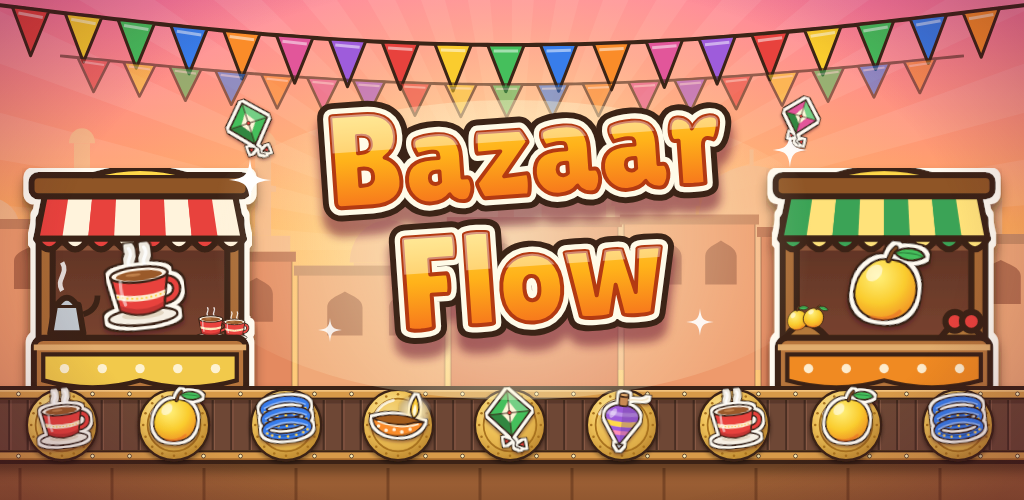
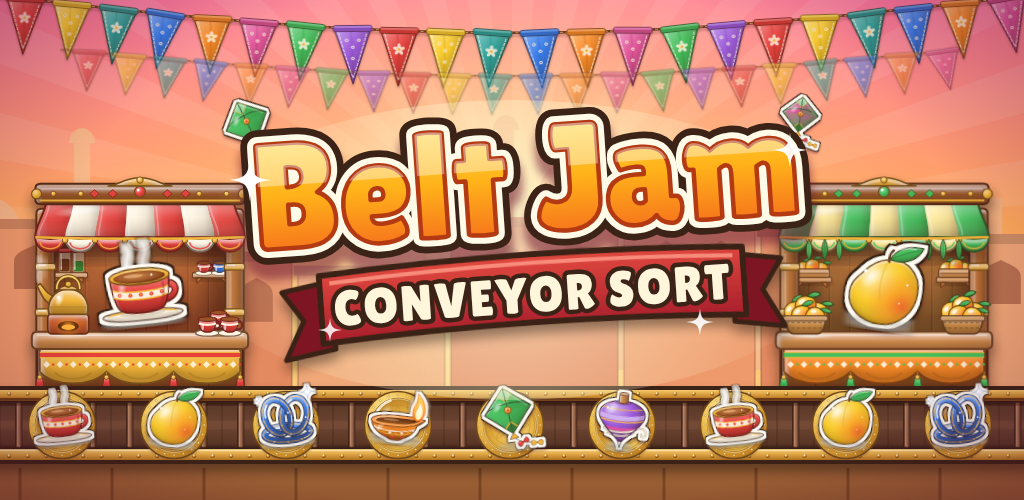
Store art: new title Belt Jam: Conveyor Sort, rebuilt with v2 art
Claude-Session: https://claude.ai/code/session_01Q4egAoqucZFQcgf6bA5jBD

diff --git a/Assets/BazaarFlow/Scripts/Visuals/BazaarVisuals.cs b/Assets/BazaarFlow/Scripts/Visuals/BazaarVisuals.cs
@@ -26,7 +26,7 @@ namespace BazaarFlow.Visuals
             if (Instance != null) return;
             if (!BazaarArt.Ready)
             {
-                Debug.LogWarning("Bazaar Flow: art not found in Resources/BazaarArt, keeping placeholder look.");
+                Debug.LogWarning("Belt Jam: art not found in Resources/BazaarArt, keeping placeholder look.");
                 return;
             }
             var go = new GameObject("BazaarVisuals");

diff --git a/Assets/BazaarFlow/Art/README.md b/Assets/BazaarFlow/Art/README.md
@@ -1,6 +1,6 @@
-# Bazaar Flow art
+# Belt Jam: Conveyor Sort art
 
-All art is original and generated from code, so it can be changed and re-rendered at any size.
+Game name: **Belt Jam: Conveyor Sort** (code folders keep the old working name `BazaarFlow`). All art is original and generated from code, so it can be changed and re-rendered at any size.
 
 - **Edit (v2, current):** `Tools/ArtGen/style.mjs` (shared style kit) and `Tools/ArtGen/v2/` (`goods.mjs`, `stalls.mjs`, `env.mjs`; contract in `v2/README.md`). `Tools/ArtGen/store.mjs` makes the icon and feature graphic. `art.mjs` + `render.mjs` are the old v1 look, kept for reference.
 - **Render:** `node Tools/ArtGen/render2.mjs` (needs Node + Playwright with Chromium). `node Tools/ArtGen/store.mjs` for store art.
